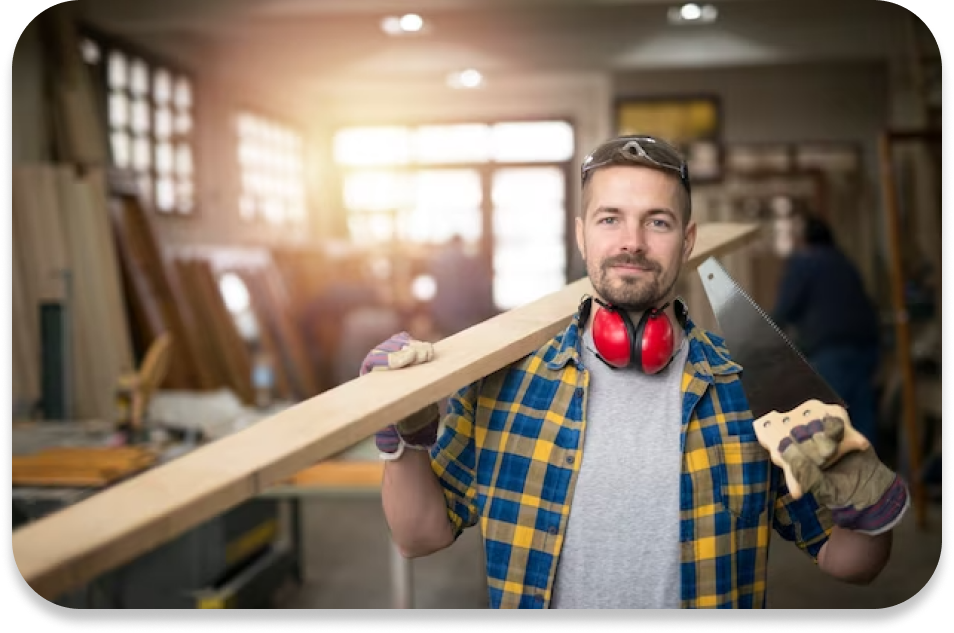
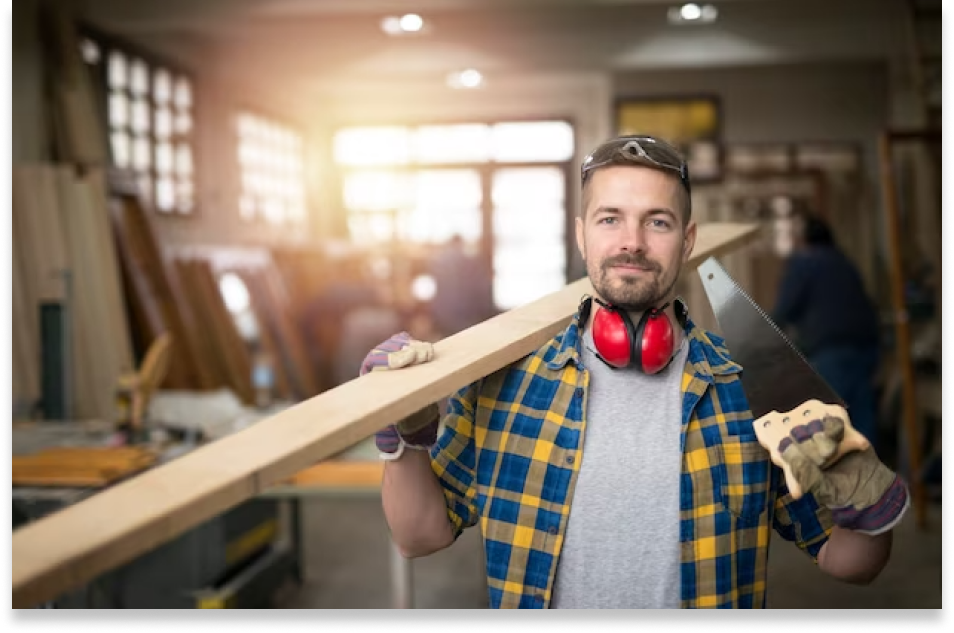
Profile Ui Changes

diff --git a/src/screens/App/SeekerDetails/index.js b/src/screens/App/SeekerDetails/index.js
@@ -1,160 +1,51 @@
 import React from 'react';
-import { View, Text, Dimensions, FlatList, Image, ScrollView, Pressable } from 'react-native';
+import {
+  View,
+  Text,
+  Dimensions,
+  FlatList,
+  Image,
+  ScrollView,
+  Pressable,
+} from 'react-native';
 import style from './style';
 import images from '../../../assets/images';
 import size from '../../../constants/size';
-import { TouchableOpacity } from 'react-native';
+import {TouchableOpacity} from 'react-native';
 import CustomButton from '../../../components/Button';
 import icons from '../../../assets/icons';
-const { width, height } = Dimensions.get('window');
-const SeekerDetails = () =>{
-    const category = [
-     { id: 1,
+const {width, height} = Dimensions.get('window');
+const SeekerDetails = () => {
+  const category = [
+    {
+      id: 1,
       name: 'Hafiz Naeem',
       image: images.SeekerImg,
       location: 'Saddar,Karachi',
       category: 'Carpenter',
-      ratings: "4.5"+"(150 Reviews)" ,
-      reviews:[{
-     
-        review1:"Providing services as a carpenter. ",
-        review2:"Available all 7 days",
-        review3:"Work Experience: 1.5 years"
-     
-      },],
-      comments:[{
-        comment1:"Hafiz Naeem  provides the best services and works on a reasonable price. Rated 10/10 for his services",
-      }]
+      ratings: '4.5' + '(150 Reviews)',
+      reviews: [
+        {
+          review1: 'Providing services as a carpenter. ',
+          review2: 'Available all 7 days',
+          review3: 'Work Experience: 1.5 years',
+        },
+      ],
+      comments: [
+        {
+          comment1:
+            'Hafiz Naeem  provides the best services and works on a reasonable price. Rated 10/10 for his services',
+        },
+      ],
     },
-    
-     
-      ];
+  ];
   return (
     <View style={style.container}>
-        <View style={style.categoryheading}>
-          <Text style={{ color: 'black', fontSize: 30, fontWeight: 'bold' }}>Profile</Text>
-        </View>
-        <View style={style.listcontainer}>
-        <View style={{alignSelf:"center"}}>
-            <Image source={images.DemoSeeker} style={style.image} />
-          </View>
-
-          {/* list for seker details */}
-        <FlatList
-      data={category}
-      renderItem={({item}) => (
-        <View style={style.cardStyles}>
-          <View style={{paddingVertical: 10}}>
-            <Text
-              style={{
-                fontSize: width * 0.06,
-                marginLeft: width * 0.01,
-                fontWeight: 'bold',
-                color: 'black',
-              }}>
-              {item.name}
-            </Text>
-            <View >
-              <Text style={{
-                fontSize: width * 0.05,
-                marginLeft: width * 0.01,
-                color: 'black',
-              }}>{item.category}</Text>
-            </View>
-            <View style={style.locationContainer}>
-              <Image source={icons.Location} style={style.locationImage} />
-              <Text style={{marginLeft: width * 0.02}}>{item.location}</Text>
-            </View>
-            <View style={style.ratingsContainer}>
-              <Image source={icons.Star} style={style.ratingImage} />
-              <Text
-               style={{
-                fontSize: width * 0.04,
-                marginLeft: width * 0.01,
-                paddingTop:height*0.01,
-                color: 'black',
-              }}>
-                {item.ratings}
-              </Text>
-            </View>
-            
-          </View>
-        </View>
-      )}
-      keyExtractor={(item, index) => index.toString()}
-      contentContainerStyle={{
-        flexDirection: 'column',
-        alignItems: 'center',
-        justifyContent: 'center',
-      }}
-    />
-    {/* list for comments and about  */}
-    <FlatList data={category}
-      renderItem={({item}) => (
-        <View style={style.cardStyles}>
-          <Text
-              style={{
-                fontSize: width * 0.05,
-                marginLeft: width * 0.001,
-                color: 'black',
-
-              }}>
-             About
-            </Text>
-          {item.reviews.map((data,index)=>(
-            <View key={index} style={{
-            }}>
-               <Text >{data.review1}</Text>
-               <Text >{data.review2}</Text>
-               <Text >{data.review3}</Text>
-            </View>
-            
-                ))}
-          <View>
-          <Text
-              style={{
-                fontSize: width * 0.05,
-                marginLeft: width * 0.001,
-                color: 'black',
-                paddingTop:height*0.03
-
-              }}>
-             Comments
-            </Text>
-            {item.comments.map((data,index)=>(
-               <View key={index} style={{
-              }}>
-                 <Text >{data.comment1}</Text>
-      
-              </View>
-            ))}
-             
-          </View>
-          
-        </View>
-        
-      )}
-      keyExtractor={(item, index) => index.toString()}
-      contentContainerStyle={{
-        flexDirection: 'column',
-        alignItems: 'center',
-        justifyContent: 'center',
-      }}
-    />
-    <Pressable style={style.buttonStyle}>
-                <Text
-                  style={{
-                    color: 'white',
-                    fontSize:20,
-                    alignSelf:"center"
-                  }}>
-                  Book Now
-                </Text>
-              </Pressable>
-        </View>
-        
+      <View>
+        <Image source={images.DemoSeeker} style={style.image} />
       </View>
-  )
-}
+    </View>
+  );
+};
 
-export default SeekerDetails
+export default SeekerDetails;

diff --git a/src/screens/App/SeekerDetails/style.js b/src/screens/App/SeekerDetails/style.js
@@ -13,37 +13,31 @@ export default StyleSheet.create({
   listcontainer: {
     alignItems: 'flex-start',
     paddingBottom: height * 0.1,
-    paddingTop:height * 0.02,
+    paddingTop: height * 0.02,
   },
   sellerCardContainer: {
-
     width: width * 0.95,
     height: height * 0.15,
     backgroundColor: 'red',
     marginTop: height * 0.02,
   },
   image: {
-    width: width * 0.9,
+    width: width * 1,
     height: height * 0.32,
-    borderTopRightRadius: width * 0.03,
-    borderBottomRightRadius: width * 0.03,
-   
   },
   cardStyles: {
     width: width * 0.95,
     flexDirection: 'column',
     // borderRadius: width * 0.0,
-   marginLeft:width * 0.1,
+    marginLeft: width * 0.1,
     margin: width * 0.03,
- 
-   
+
     // paddingVertical: height * 0.02,
   },
   ratingImage: {
     width: width * 0.05,
     height: height * 0.025,
-    marginTop:height*0.01,
-   
+    marginTop: height * 0.01,
   },
   ratingsContainer: {
     flexDirection: 'row',
@@ -63,8 +57,8 @@ export default StyleSheet.create({
     backgroundColor: '#164377',
     padding: 5,
     paddingHorizontal: 10,
-     width:width*0.3,
-     height:height*0.05,
-     borderRadius:10
+    width: width * 0.3,
+    height: height * 0.05,
+    borderRadius: 10,
   },
 });
